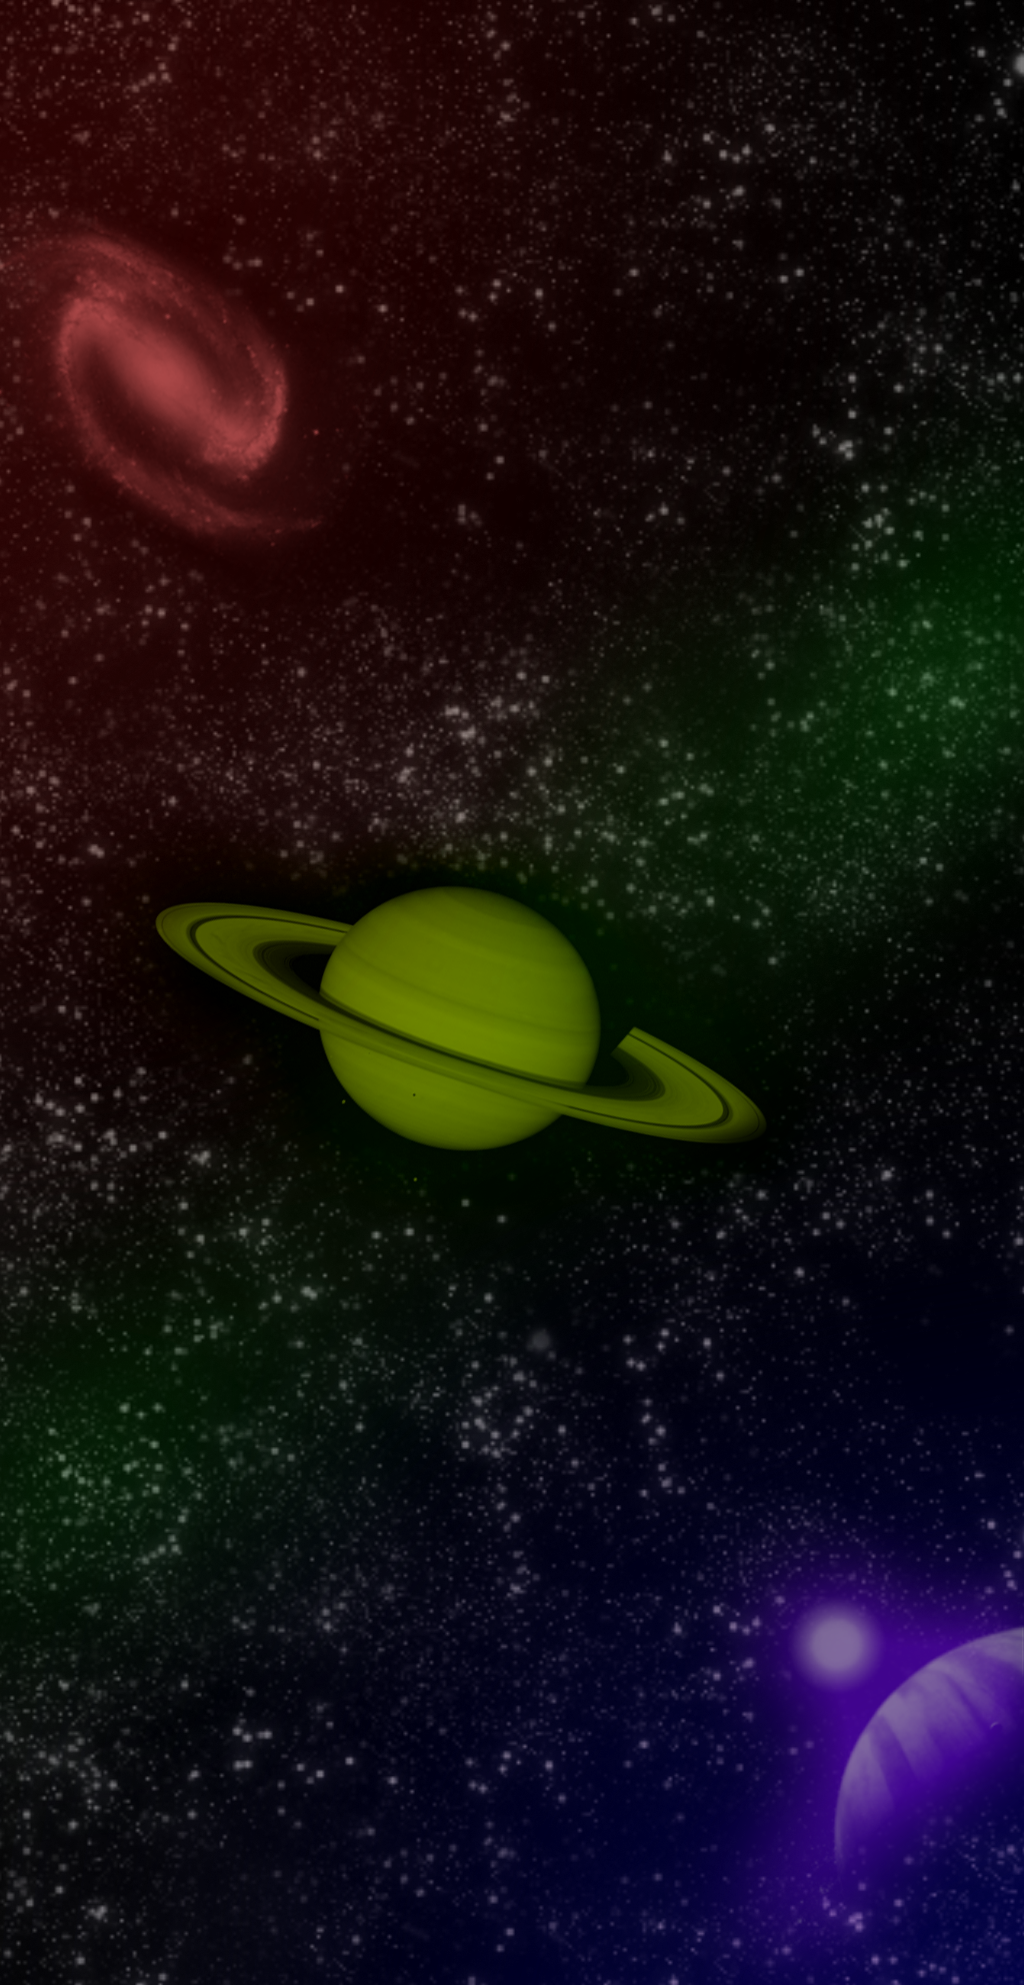
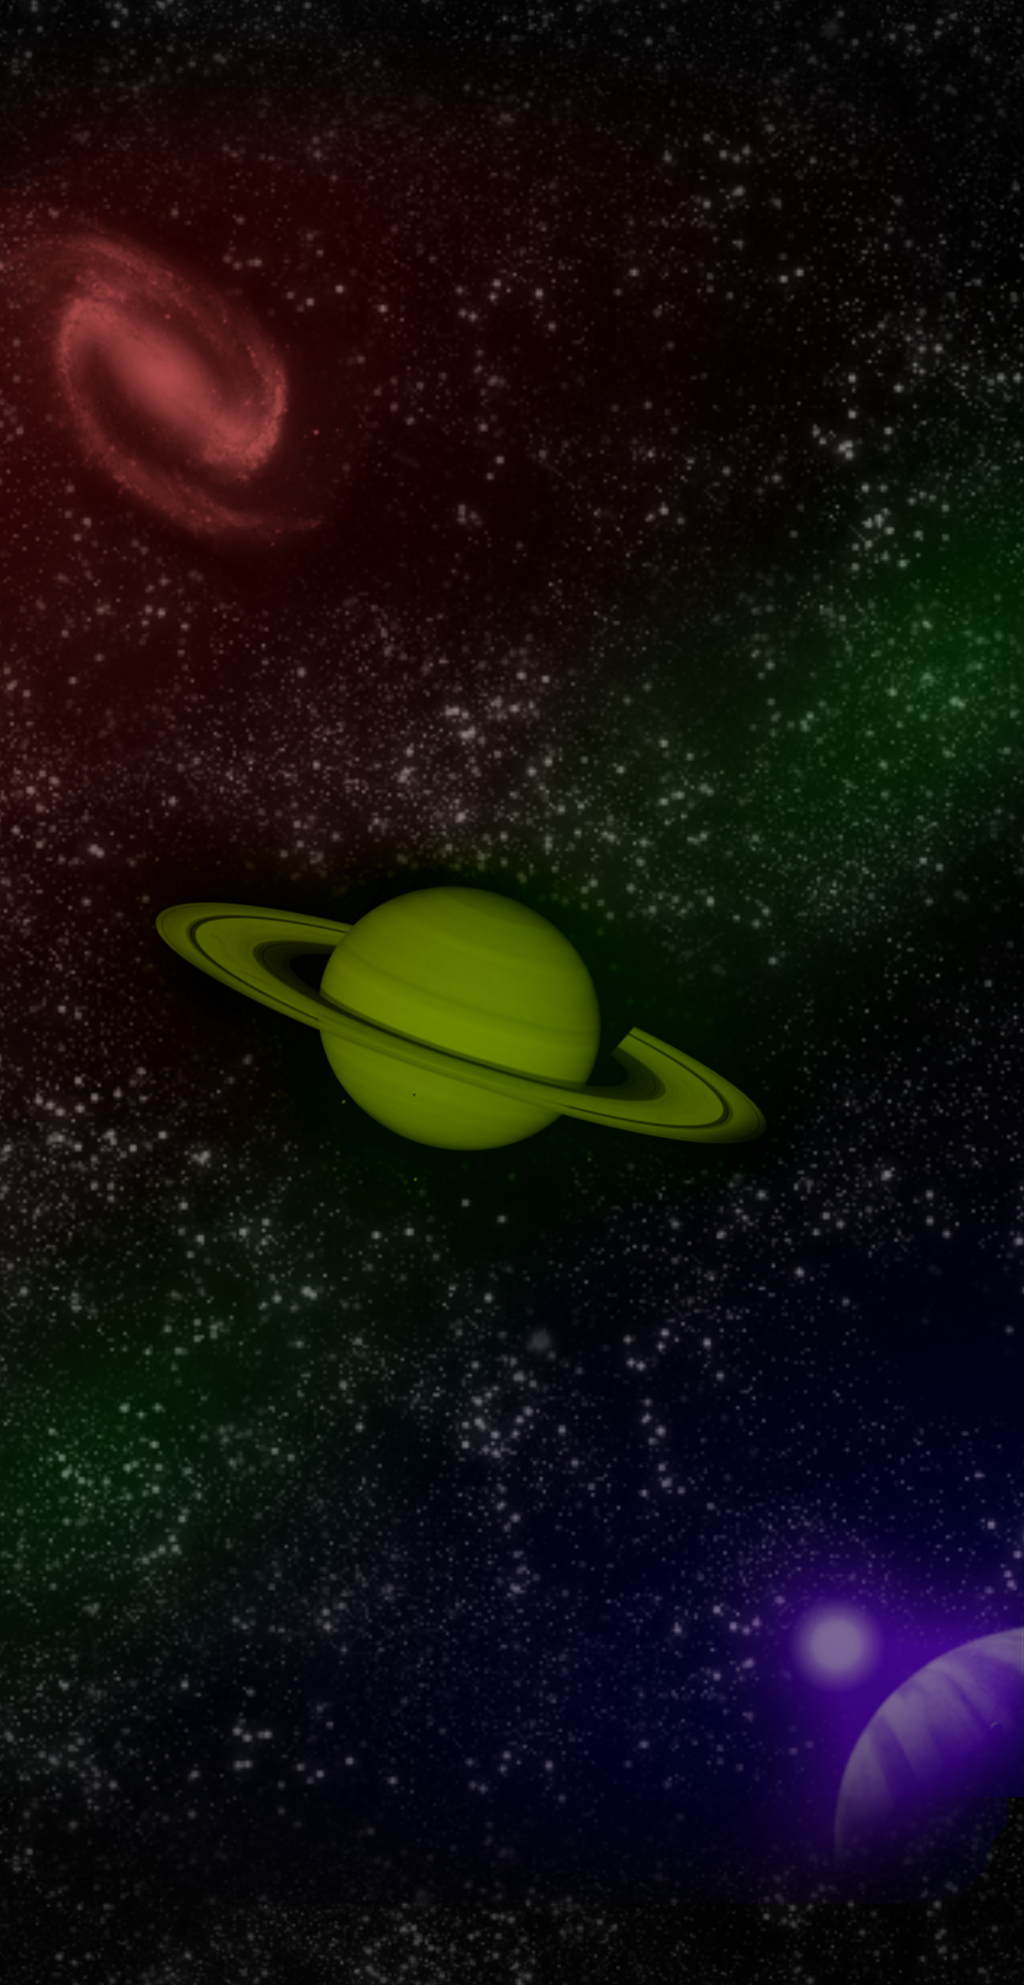
Modification of the background image and shape of the missile changed by a sprite

diff --git a/MultimodalSpaceShooter/src/entities/Missile.cpp b/MultimodalSpaceShooter/src/entities/Missile.cpp
@@ -1,12 +1,13 @@
 #include "Missile.h"
 #include <SFML/Graphics.hpp>
+#include "managers/Managers.h"
 
 const float Missile::SPEED = 500.f;
 
 Missile::Missile(const sf::Vector2f& initialPos) :
-myShape(sf::Shape::Line(sf::Vector2f(0.f, 0.f), sf::Vector2f(0.f, 10.f), 1.f, sf::Color::Red))
+mySprite(*imageManager().get("bullet.png"))
 {
-    myShape.SetPosition(initialPos);
+    mySprite.SetPosition(initialPos);
 }
 
 
@@ -22,18 +23,18 @@ void Missile::onCollision(const sf::FloatRect& area)
 
 void Missile::update(float frameTime)
 {
-    myShape.Move(0, -SPEED * frameTime);
+    mySprite.Move(0, -SPEED * frameTime);
 
-    if(myShape.GetPosition().y <= 0)
+    if(mySprite.GetPosition().y <= 0)
         destroy();
 }
 
 sf::FloatRect Missile::getBoundingRect() const
 {
-    return sf::FloatRect(myShape.GetPosition(), sf::Vector2f(1, 10));
+    return sf::FloatRect(mySprite.GetPosition(), sf::Vector2f(1, 10));
 }
 
 void Missile::draw(sf::RenderTarget& window) const
 {
-    window.Draw(myShape);
+    window.Draw(mySprite);
 }

diff --git a/MultimodalSpaceShooter/src/entities/Missile.h b/MultimodalSpaceShooter/src/entities/Missile.h
@@ -2,7 +2,7 @@
 #define MISSILE_H
 
 #include "Entity.h"
-#include <SFML/Graphics/Shape.hpp>
+#include <SFML/Graphics.hpp>
 
 class Missile : public Entity
 {
@@ -16,7 +16,7 @@ class Missile : public Entity
         virtual sf::FloatRect getBoundingRect() const;
 
     private:
-        sf::Shape myShape;
+        sf::Sprite mySprite;
 
 
         static const float SPEED;

diff --git a/MultimodalSpaceShooter/src/scenes/InGameScene.cpp b/MultimodalSpaceShooter/src/scenes/InGameScene.cpp
@@ -5,7 +5,7 @@
 
 InGameScene::InGameScene():
 myGameClock(true),
-myBackground(*imageManager().get("background.png"), 0.001f, 1985)
+myBackground(*imageManager().get("background.png"), 0.01f, 1985)
 {
     // Preload images
     imageManager().load("background.png");

diff --git a/MultimodalSpaceShooter/Background.cpp b/MultimodalSpaceShooter/Background.cpp
@@ -1,8 +1,5 @@
 #include "Background.h"
 #include "core/Game.h"
-#include <sstream>
-#include <iostream>
-#include <string>
 
 
 Background::Background(const sf::Image& image, float frameTime, int imgHeight) :
